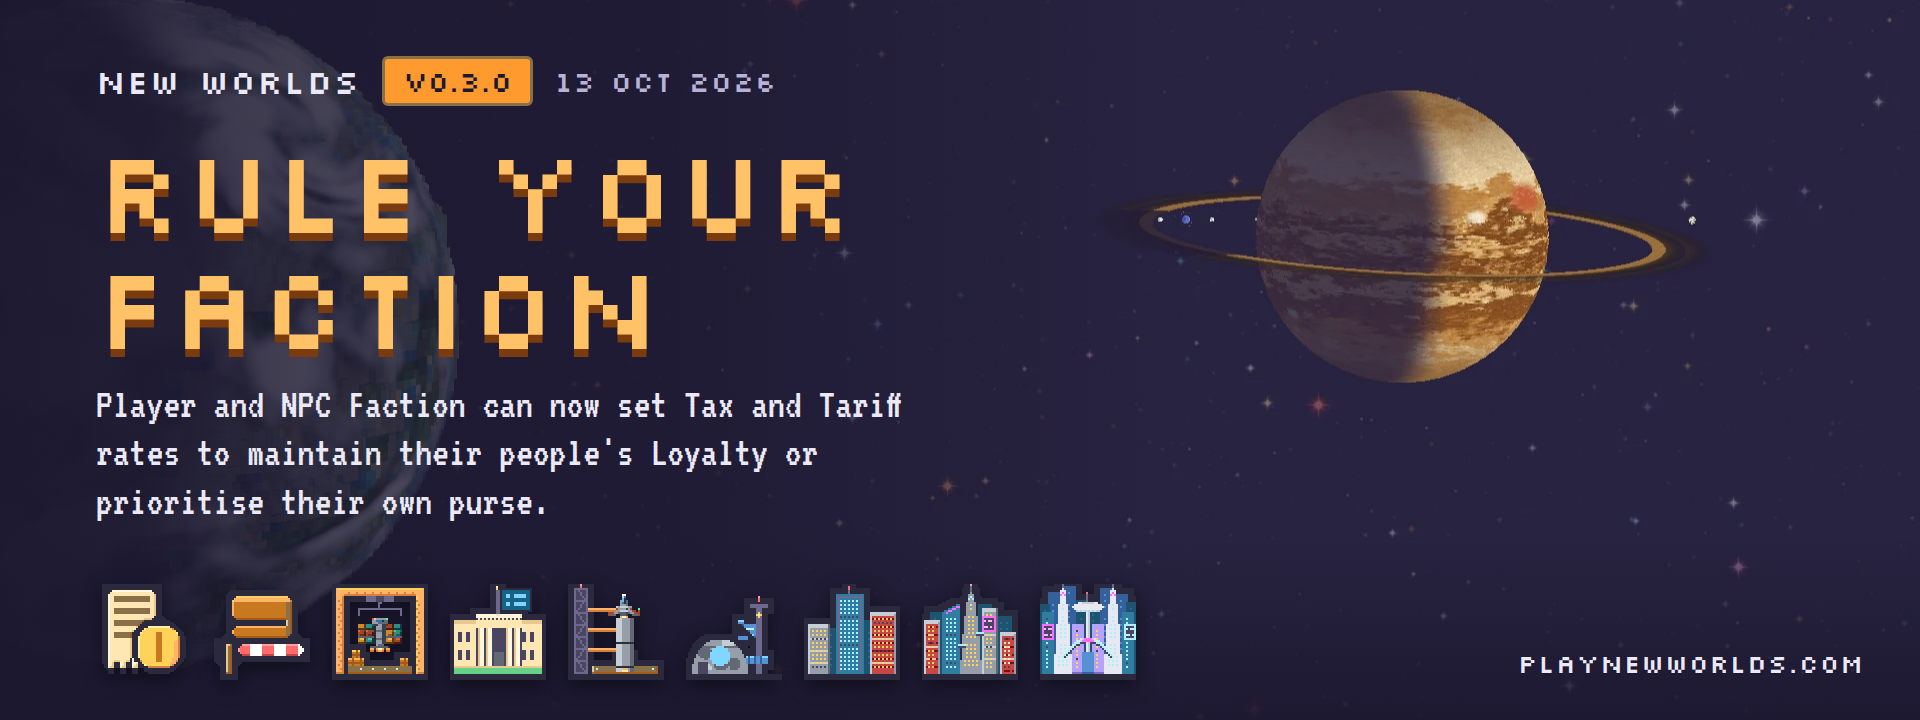
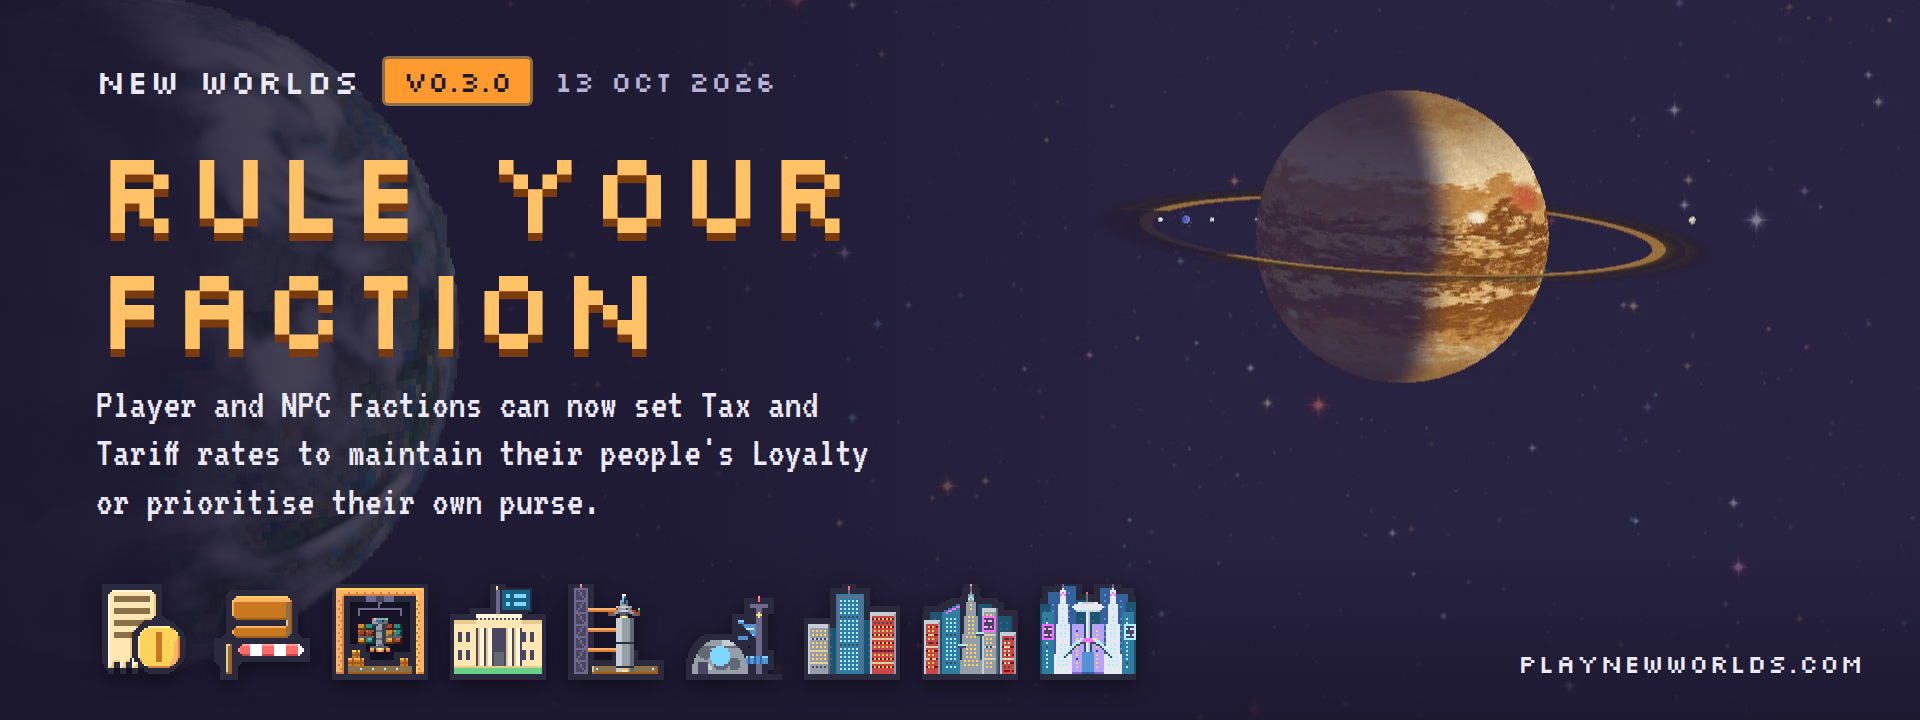
v0.3.0: Player and NPC Factions

Changed region(s): [[0.0312, 0.6111, 0.4688, 0.7333], [0.2188, 0.55, 0.4688, 0.5806]]

diff --git a/releases.html b/releases.html
@@ -59,7 +59,7 @@
     <article class="release" id="v0-3-0">
       <h2 class="pixel">Rule Your Faction <span class="tag pixel">v0.3.0</span></h2>
       <img class="release-art" src="img/banner-v0.3.0.png" width="1920" height="720" loading="lazy"
-           alt="Rule Your Faction, v0.3.0: Player and NPC Faction can now set Tax and Tariff rates to maintain their people&#x27;s Loyalty or prioritise their own purse. Now with Speedrun integration with LiveSplit.">
+           alt="Rule Your Faction, v0.3.0: Player and NPC Factions can now set Tax and Tariff rates to maintain their people&#x27;s Loyalty or prioritise their own purse. Now with Speedrun integration with LiveSplit.">
       <div class="notes">
         <h3 class="pixel">Factions</h3>
         <ul>

diff --git a/index.html b/index.html
@@ -78,7 +78,7 @@
       <span class="rb-text">
         <span class="rb-head"><span class="tag pixel">New in v0.3.0</span><time class="rb-date pixel" datetime="2026-10-13">13 Oct 2026</time></span>
         <span class="rb-title pixel">Rule Your Faction</span>
-        <span class="rb-sub">Player and NPC Faction can now set Tax and Tariff rates to maintain their people's Loyalty or prioritise their own purse. Now with Speedrun integration with LiveSplit.</span>
+        <span class="rb-sub">Player and NPC Factions can now set Tax and Tariff rates to maintain their people's Loyalty or prioritise their own purse. Now with Speedrun integration with LiveSplit.</span>
         <span class="btn">Read the patch notes</span>
       </span>
     </a>

diff --git a/banners/v0.3.0.html b/banners/v0.3.0.html
@@ -39,7 +39,7 @@
   <div class="text">
     <div class="head"><div class="game">New Worlds</div><div class="tag">v0.3.0</div><div class="date">13 Oct 2026</div></div>
     <h1>Rule Your<br>Faction</h1>
-    <p>Player and NPC Faction can now set Tax and Tariff rates to maintain their people's Loyalty or prioritise their own purse.</p>
+    <p>Player and NPC Factions can now set Tax and Tariff rates to maintain their people's Loyalty or prioritise their own purse.</p>
   </div>
   <div class="icons">
     <img src="../img/icons/tax.png" alt="">
